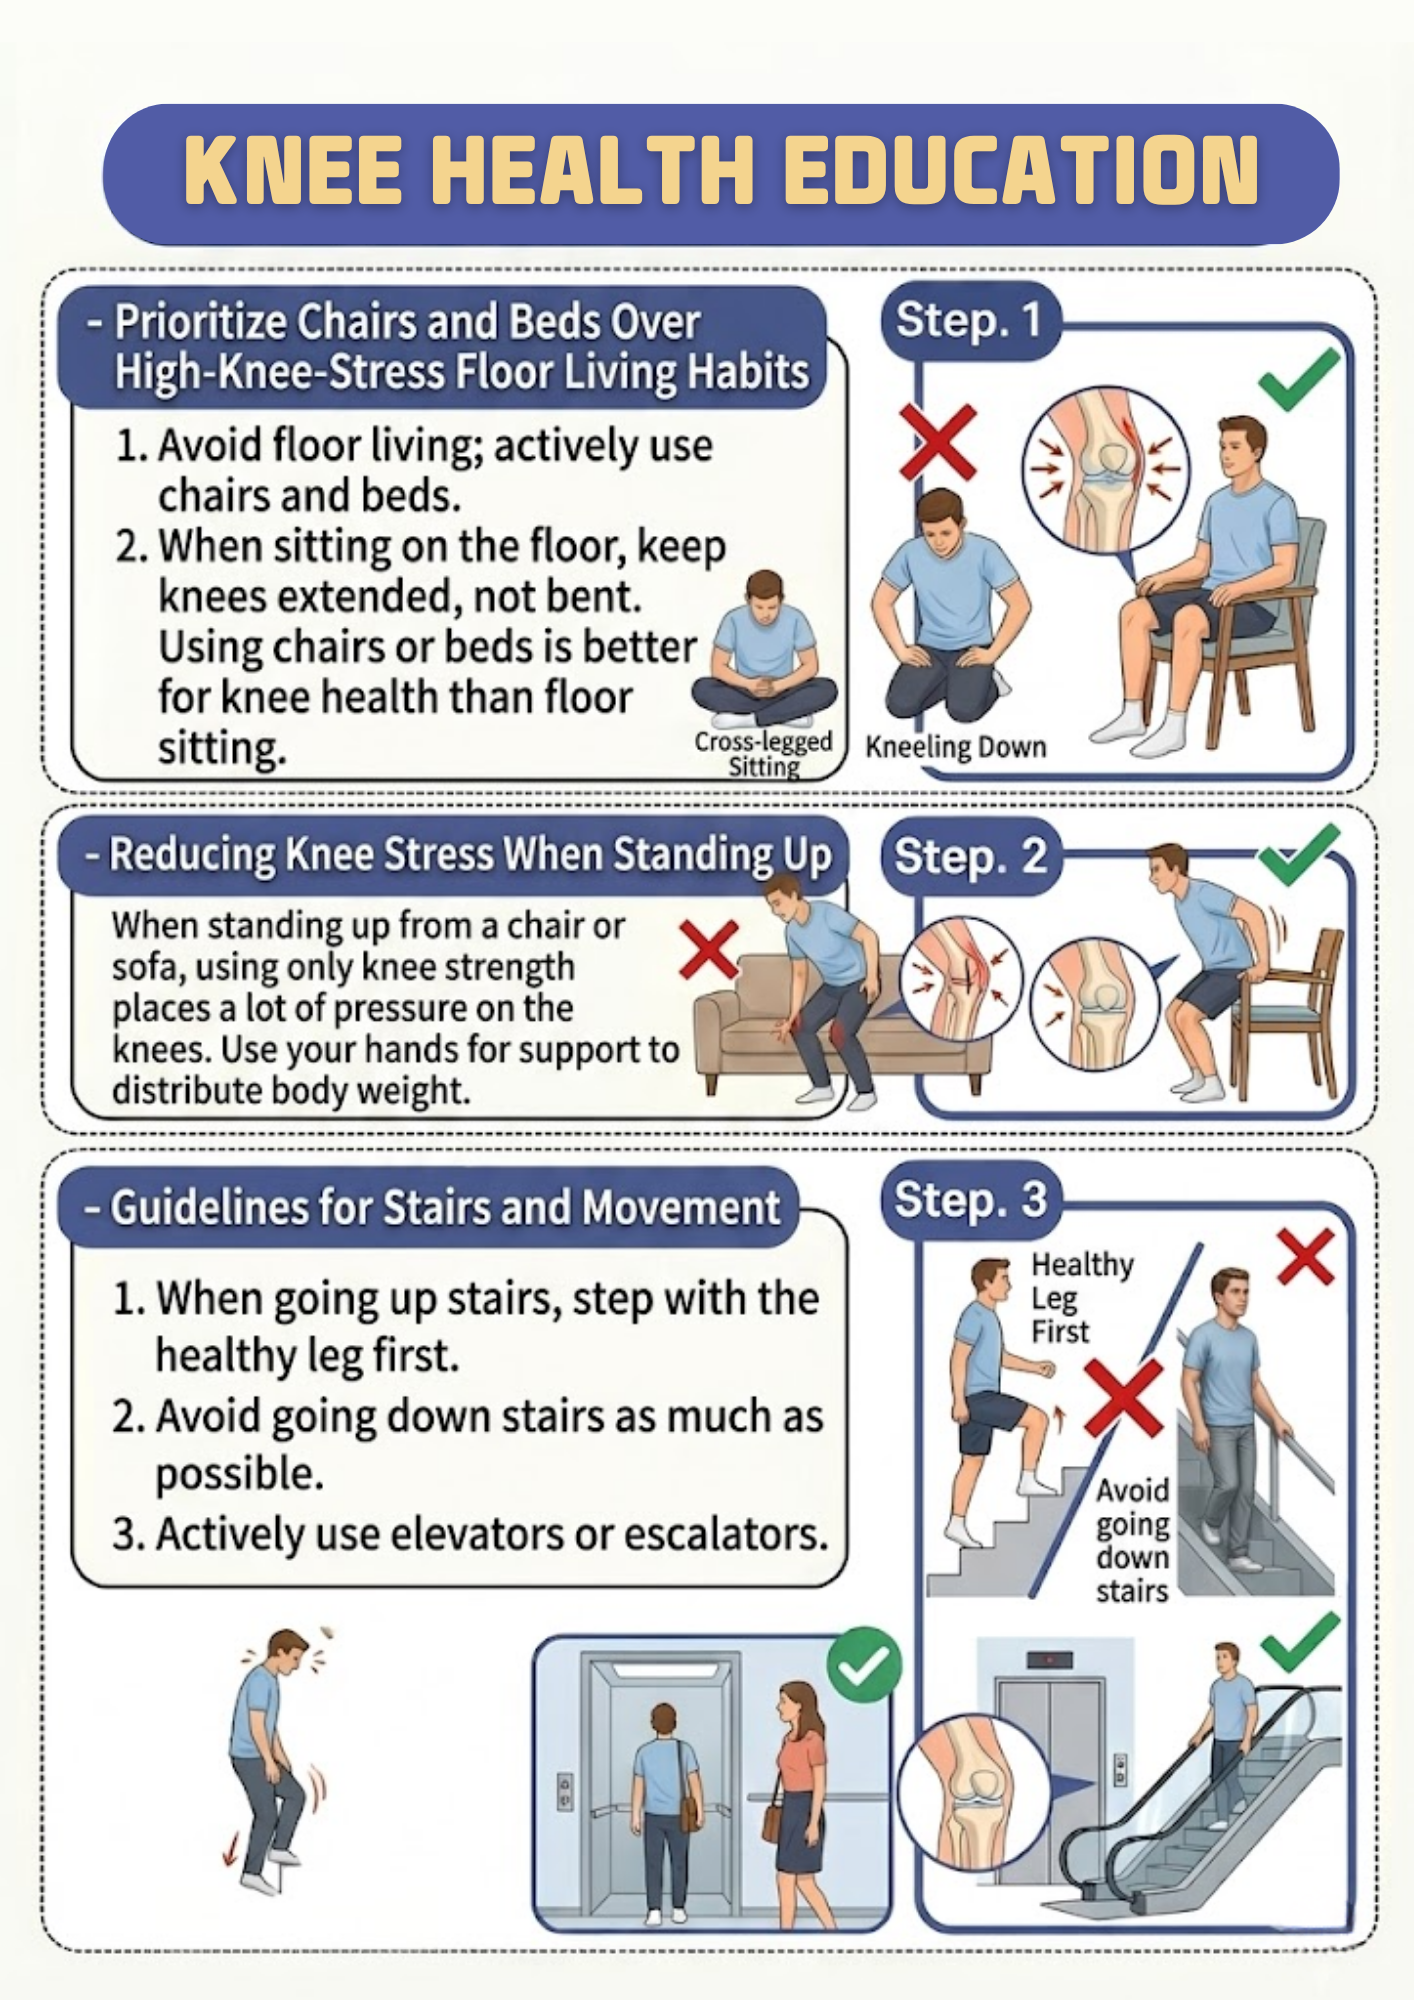
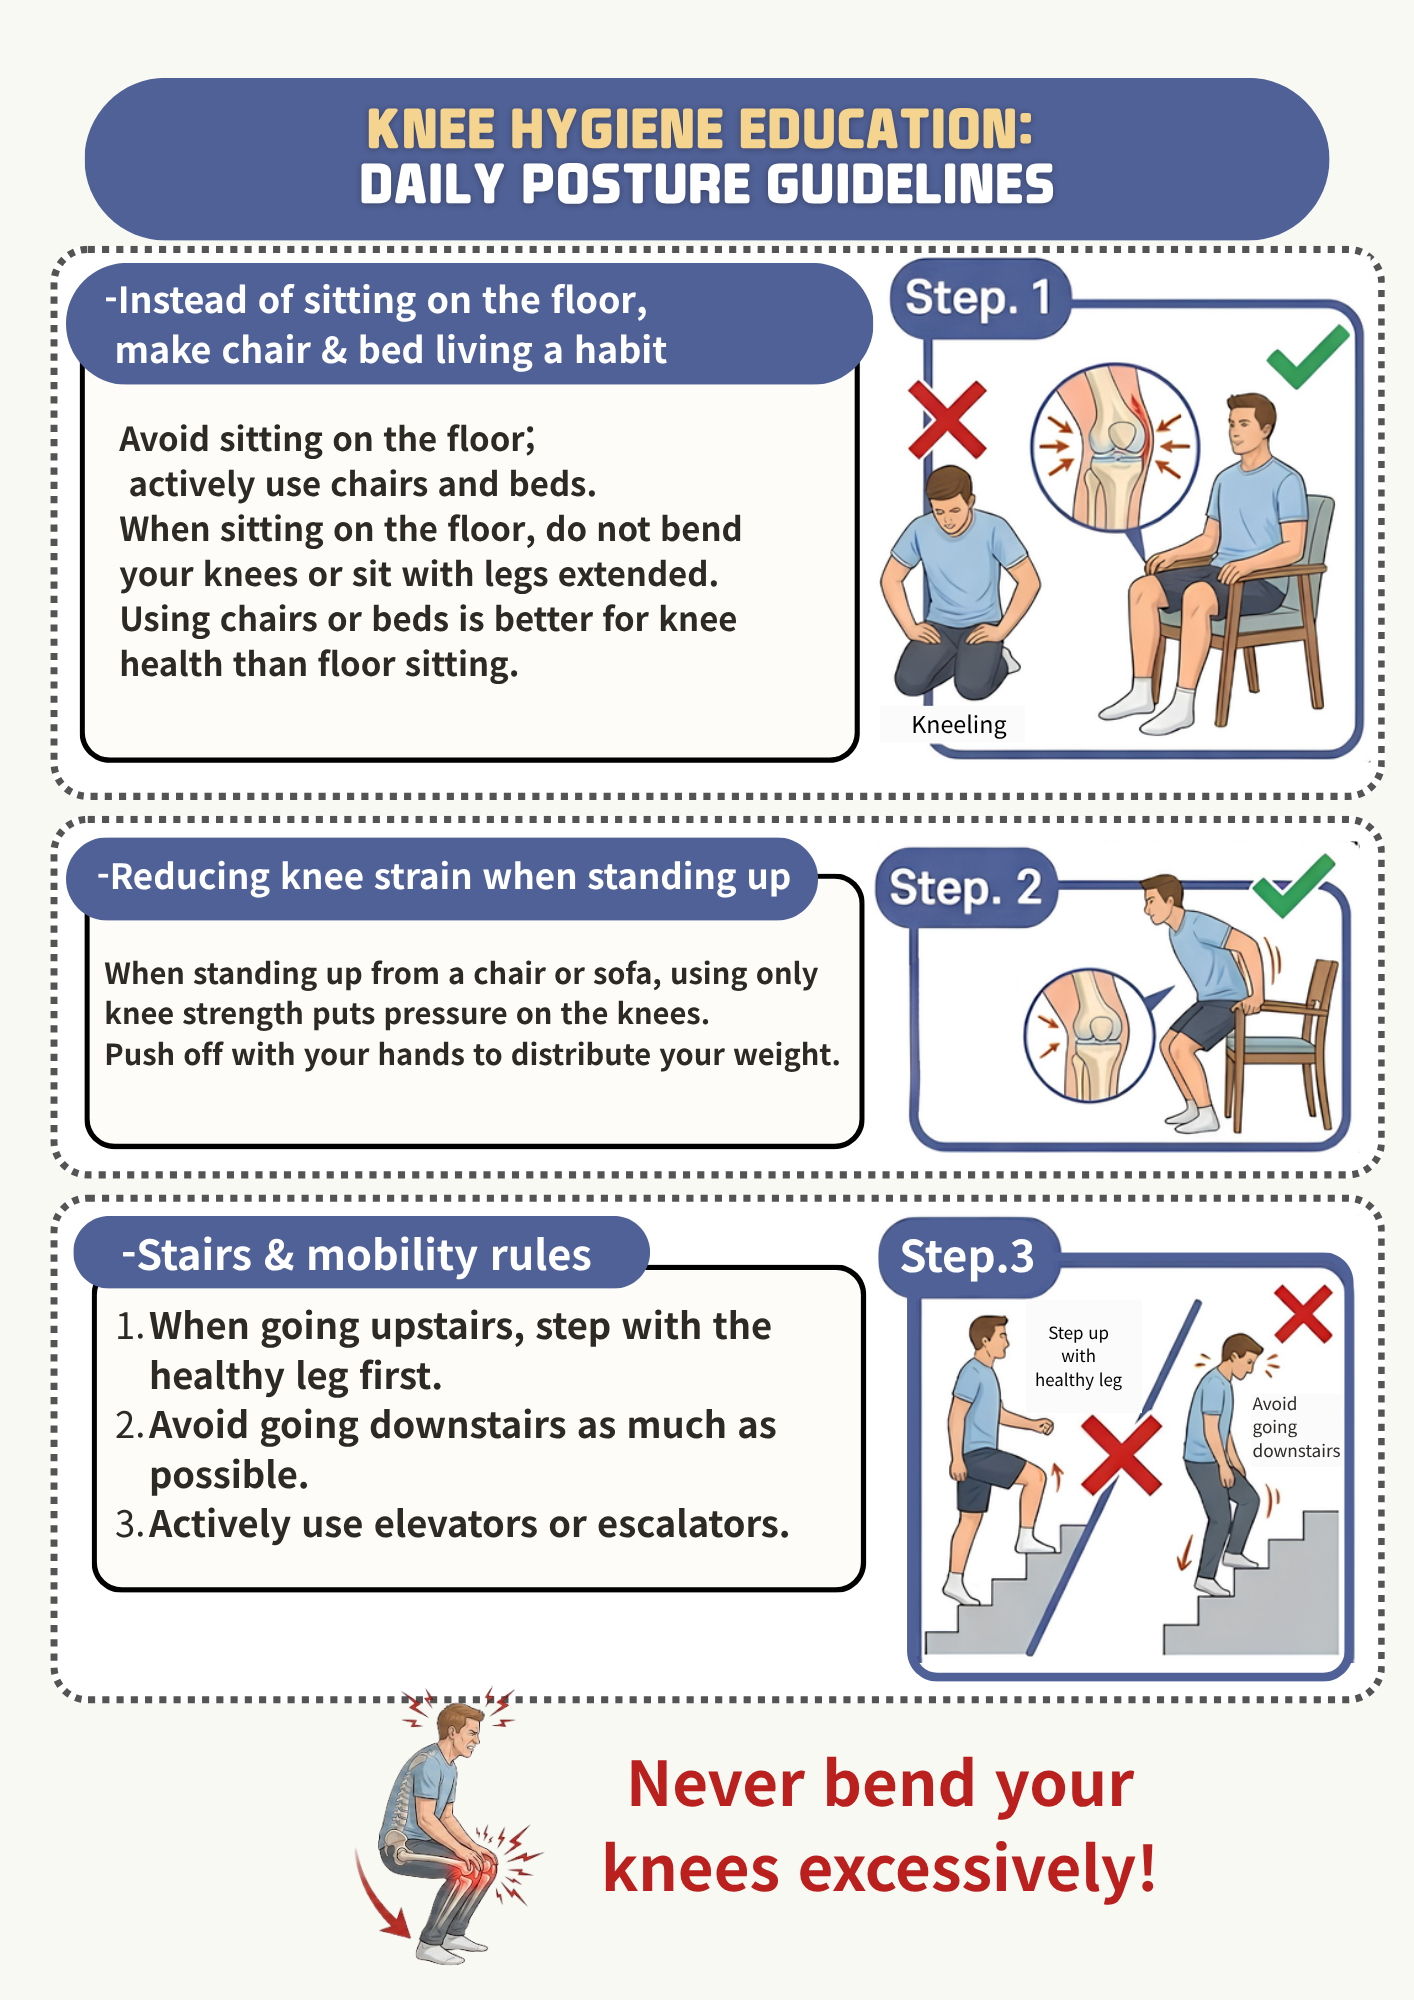
fix: 무릎 위생교육 배너 한/영 이미지 교체 + BANNER_VER 20260726

diff --git a/js/i18n.js b/js/i18n.js
@@ -5,7 +5,7 @@
    ───────────────────────────────────────────── */
 
 /* 배너 캐시 버전: 배너 이미지를 같은 파일명으로 교체할 때마다 이 값을 올린다. */
-const BANNER_VER = '20260708';
+const BANNER_VER = '20260726';
 
 const translationMap = {
   ko: {
